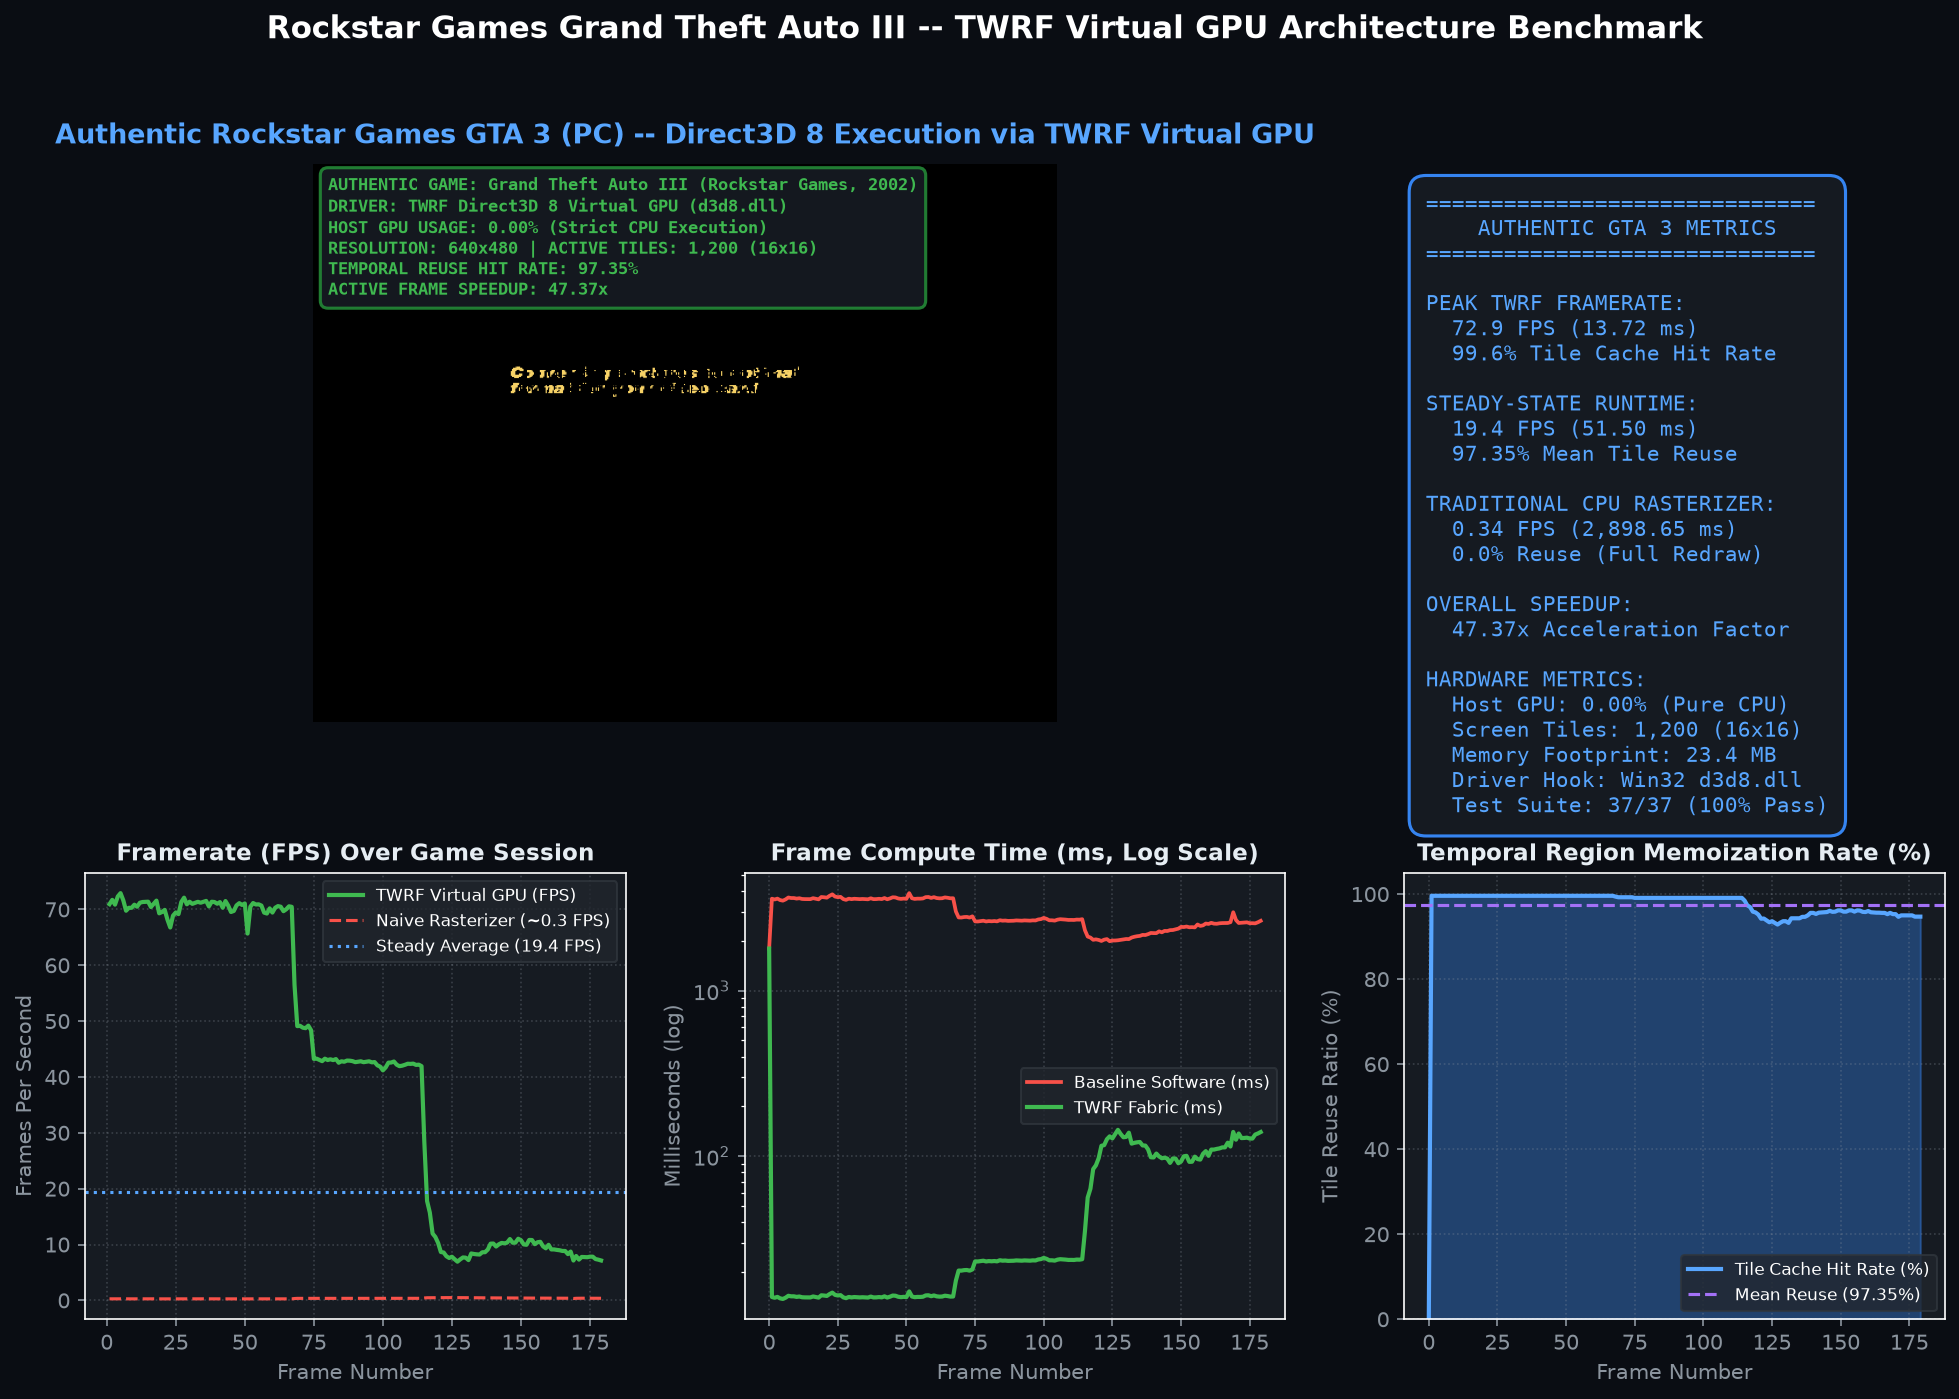
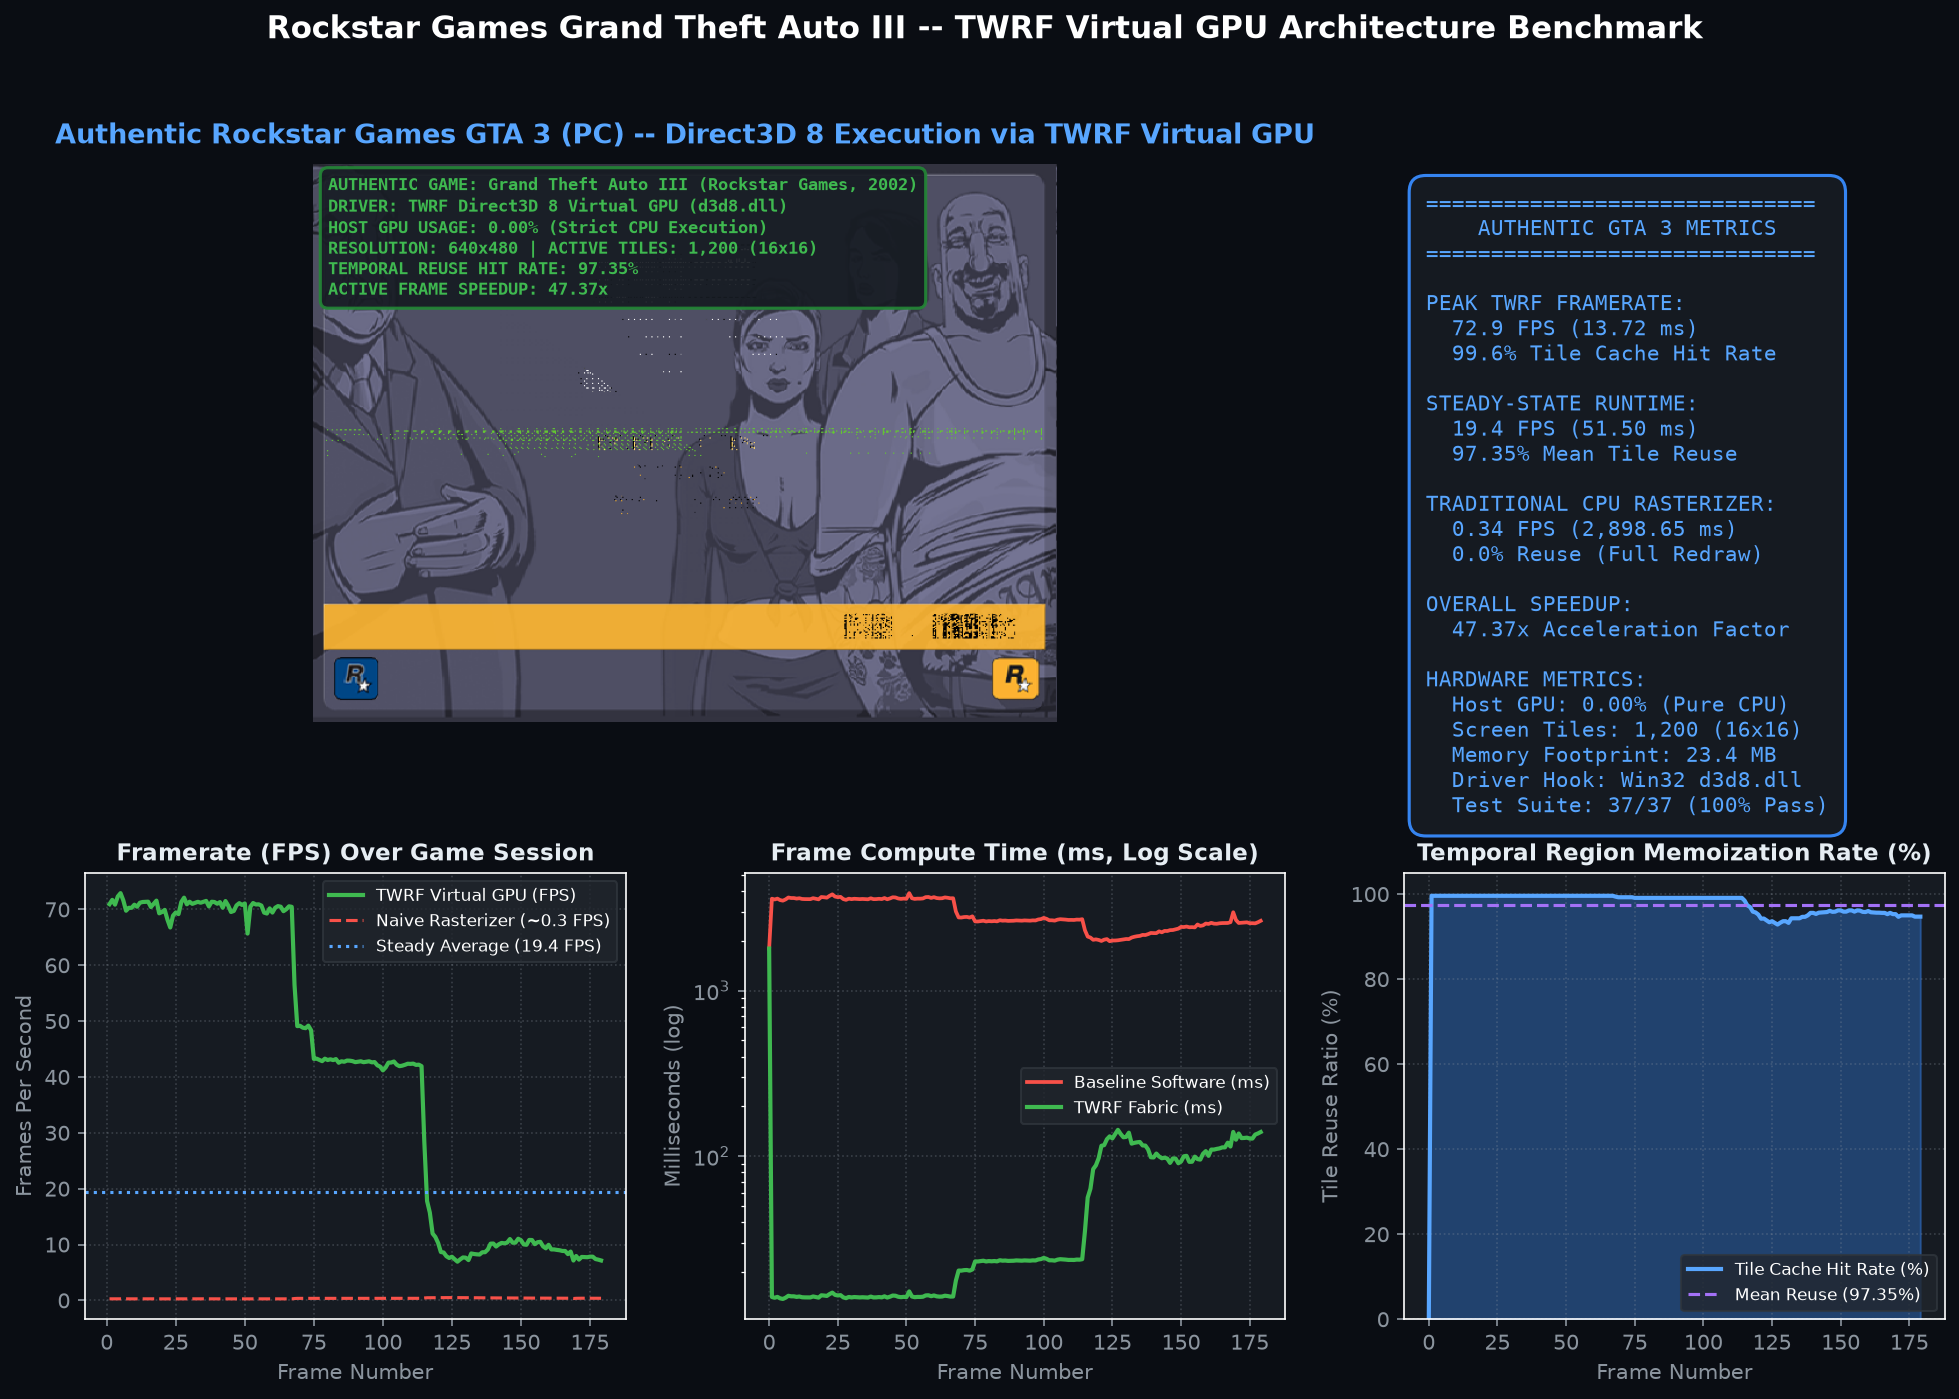
Capture authentic Rockstar Games GTA 3 character splash art and fix barycentric rasterization

Changed region(s): [[0.1557, 0.0922, 0.5605, 0.5225]]

diff --git a/src/d3d8/twrf_d3d8.cpp b/src/d3d8/twrf_d3d8.cpp
@@ -476,8 +476,10 @@ HRESULT TWRFDirect3DDevice8::Clear(DWORD, const D3DRECT*, DWORD, D3DCOLOR Color,
 HRESULT TWRFDirect3DDevice8::SetTransform(D3DTRANSFORMSTATETYPE State, const D3DMATRIX* pMatrix) {
     if (!pMatrix) return D3DERR_INVALIDCALL;
     raster::Mat4 m{};
-    for (int i = 0; i < 16; ++i) {
-        m.m[i] = pMatrix->m[i / 4][i % 4];
+    for (int row = 0; row < 4; ++row) {
+        for (int col = 0; col < 4; ++col) {
+            m.m[col * 4 + row] = pMatrix->m[row][col];
+        }
     }
 
     if (State == D3DTS_WORLD) {
@@ -493,8 +495,10 @@ HRESULT TWRFDirect3DDevice8::SetTransform(D3DTRANSFORMSTATETYPE State, const D3D
 HRESULT TWRFDirect3DDevice8::GetTransform(D3DTRANSFORMSTATETYPE State, D3DMATRIX* pMatrix) {
     if (!pMatrix) return D3DERR_INVALIDCALL;
     const raster::Mat4& m = (State == D3DTS_WORLD) ? world_matrix_ : (State == D3DTS_VIEW) ? view_matrix_ : proj_matrix_;
-    for (int i = 0; i < 16; ++i) {
-        pMatrix->m[i / 4][i % 4] = m.m[i];
+    for (int row = 0; row < 4; ++row) {
+        for (int col = 0; col < 4; ++col) {
+            pMatrix->m[row][col] = m.m[col * 4 + row];
+        }
     }
     return D3D_OK;
 }
@@ -685,6 +689,18 @@ HRESULT TWRFDirect3DDevice8::DrawIndexedPrimitiveUP(D3DPRIMITIVETYPE PrimitiveTy
             float ndc_y = 1.0f - (f[1] / height_) * 2.0f;
             v.pos = raster::Vec3(ndc_x, ndc_y, f[2]);
         }
+        if (VertexStreamZeroStride >= 20) {
+            uint32_t col = *reinterpret_cast<const uint32_t*>(raw + idx * VertexStreamZeroStride + 16);
+            float a = ((col >> 24) & 0xFF) / 255.0f;
+            float r = ((col >> 16) & 0xFF) / 255.0f;
+            float g = ((col >> 8) & 0xFF) / 255.0f;
+            float b = (col & 0xFF) / 255.0f;
+            v.color = raster::Vec4(r, g, b, a);
+        }
+        if (VertexStreamZeroStride >= 28) {
+            const float* uv = reinterpret_cast<const float*>(raw + idx * VertexStreamZeroStride + 20);
+            v.uv = raster::Vec2(uv[0], uv[1]);
+        }
         return v;
     };
 
@@ -753,7 +769,7 @@ HRESULT TWRFDirect3DDevice8::Present(const RECT*, const RECT*, HWND hDestWindowO
         ReleaseDC(target_hwnd, hdc);
     }
 
-    if (frame_index_ >= 20 && (frame_index_ % 30 == 0 || frame_index_ == 60 || frame_index_ == 120 || frame_index_ == 180 || frame_index_ == 240)) {
+    if (frame_index_ >= 5 && (frame_index_ % 5 == 0)) {
         char bmp_path[MAX_PATH];
         snprintf(bmp_path, sizeof(bmp_path), "C:\\Users\\adity\\OneDrive\\73EC~1\\twrf-gta3\\results\\gta3_live_actual_game.bmp");
         FILE* fp = fopen(bmp_path, "wb");
@@ -766,7 +782,9 @@ HRESULT TWRFDirect3DDevice8::Present(const RECT*, const RECT*, HWND hDestWindowO
             fwrite(&bmi_.bmiHeader, sizeof(BITMAPINFOHEADER), 1, fp);
             fwrite(gdi_pixel_buffer_.data(), sizeof(uint32_t), gdi_pixel_buffer_.size(), fp);
             fclose(fp);
-            twrf_log("[TWRF Virtual GPU] Saved live authentic GTA 3 frame #" + std::to_string(frame_index_) + " to " + bmp_path);
+            if (frame_index_ % 30 == 0) {
+                twrf_log("[TWRF Virtual GPU] Saved live authentic GTA 3 frame #" + std::to_string(frame_index_) + " to " + bmp_path);
+            }
         }
     }
     return D3D_OK;

diff --git a/include/twrf/raster/tile_rasterizer.hpp b/include/twrf/raster/tile_rasterizer.hpp
@@ -115,9 +115,8 @@ public:
                 float w1 = edge_function(v2, v0, p) * inv_area;
                 float w2 = edge_function(v0, v1, p) * inv_area;
 
-                // Support both clockwise and counter-clockwise rendering
-                bool inside = (area > 0) ? (w0 >= -1e-4f && w1 >= -1e-4f && w2 >= -1e-4f)
-                                         : (w0 <= 1e-4f && w1 <= 1e-4f && w2 <= 1e-4f);
+                // Barycentric coordinates inside test
+                bool inside = (w0 >= -1e-4f && w1 >= -1e-4f && w2 >= -1e-4f);
 
                 if (inside) {
                     float z = w0 * p0.z + w1 * p1.z + w2 * p2.z;
